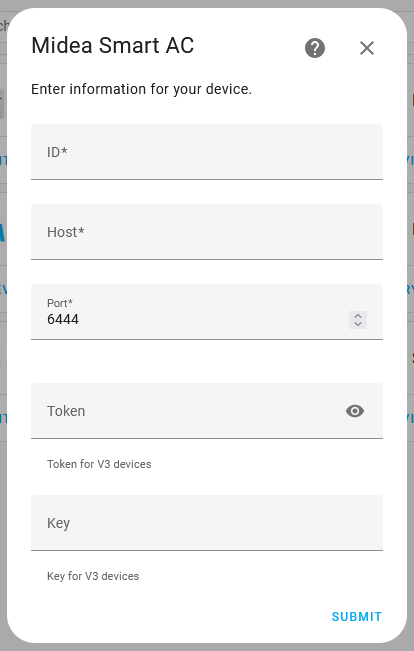
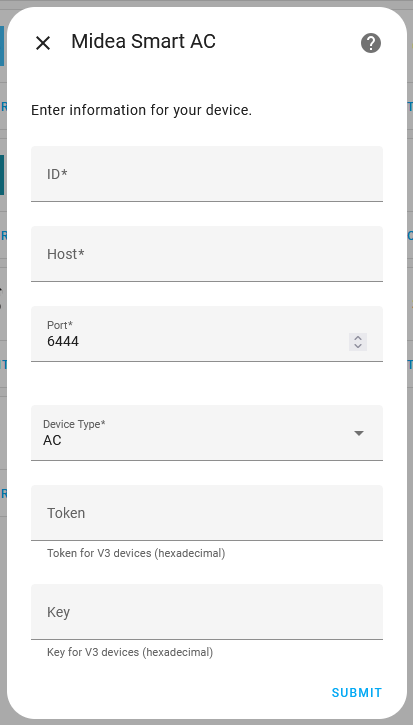
Update images and device options in README

diff --git a/README.md b/README.md
@@ -110,6 +110,7 @@ Or search HACS integrations for "Midea Smart AC".
 Midea Smart AC is configured via the GUI. See [the HA docs](https://www.home-assistant.io/getting-started/integration/) for more details.
 
 Click the _Add Integration_ button and search for "Midea Smart AC".
+
 ![Add Device](docs/add_device.png)
 
 Devices can be automatically discovered and configured or manually configured.
@@ -141,27 +142,30 @@ Name | Description | Required | Example
 **Key** | Device key | For V3 devices | CFFA10FC... (64 character hexadecimal string)
 
 ## Integration Options
-Additional options are available to tweak integration behavior per device.
-
-![Integration Options](docs/options.png)
+Additional options are available to tweak integration behavior per device. The available options depend on the device type.
 
 ---
-Name | Default | Description 
-:--- | :--- | :--- 
-**Beep** | True | Enable beep on setting changes.
-**Reverse Horizontal Swing Angle** | False | Reverse the order of horizontal swing angles from left-to-right to right-to-left.
-**Temperature Step** | 1.0 | Step size for temperature set point.
-**Fan Speed Step** | 1 | Step size for custom fan speeds.
-**Maximum Connection Lifetime** | Empty | Limit the time (in seconds) a connection to the device will be used before reconnecting. If left blank, the connection will persist indefinitely. If your device disconnects at regular intervals, set this to a value below the interval.
-**Energy Sensor Format > Data Format** | BCD | Select the data format for decoding energy data from the device.
-**Energy Sensor Format > Scale** | 1.0 | Select the data scale for reporting energy data from the device.
-**Power Sensor Format > Data Format** | BCD | Select the data format for decoding power data from the device.
-**Power Sensor Format > Scale** | 1.0 | Select the data scale for reporting power data from the device.
-**Workarounds > Use Fan-only Workaround** | False | Enable this option if device updates cause the device to turn on and switch to fan-only.
-**Workarounds > Show All Presets** | False | Show all presets regardless of device's reported capabilities.
-**Workarounds > Additional Operation Modes** | Empty | Additional HVAC modes to make available in case the device's capabilities are incorrect.
+Name | Default | Device Type | Description 
+:--- | :--- | :--- | :--- 
+**Reverse Horizontal Swing Angle** | False | All | Reverse the order of horizontal swing angles from left-to-right to right-to-left.
+**Temperature Step** | 1.0 | All | Step size for temperature set point.
+**Maximum Connection Lifetime** | Empty | All | Limit the time (in seconds) a connection to the device will be used before reconnecting. If left blank, the connection will persist indefinitely. If your device disconnects at regular intervals, set this to a value below the interval.
+**Beep** | True | AC |Enable beep on setting changes.
+**Fan Speed Step** | 1 | AC |Step size for custom fan speeds.
+**Energy Sensor Format > Data Format** | BCD | AC | Select the data format for decoding energy data from the device.
+**Energy Sensor Format > Scale** | 1.0 | AC | Select the data scale for reporting energy data from the device.
+**Power Sensor Format > Data Format** | BCD | AC | Select the data format for decoding power data from the device.
+**Power Sensor Format > Scale** | 1.0 | AC | Select the data scale for reporting power data from the device.
+**Workarounds > Use Fan-only Workaround** | False | AC | Enable this option if device updates cause the device to turn on and switch to fan-only.
+**Workarounds > Show All Presets** | False | AC | Show all presets regardless of device's reported capabilities.
+**Workarounds > Additional Operation Modes** | Empty | AC | Additional HVAC modes to make available in case the device's capabilities are incorrect.
+
+### AC Options
+![Integration Options](docs/ac_options.png)
 
 
+### CC Options
+![Integration Options](docs/cc_options.png)
 
 ## Resolving Connectivity Issues
 Some users have reported issue with their devices periodically becoming unavailable, and with logs full of warnings and errors. This is almost always due to the device terminating the existing connection and briefly rejecting new connections. 
